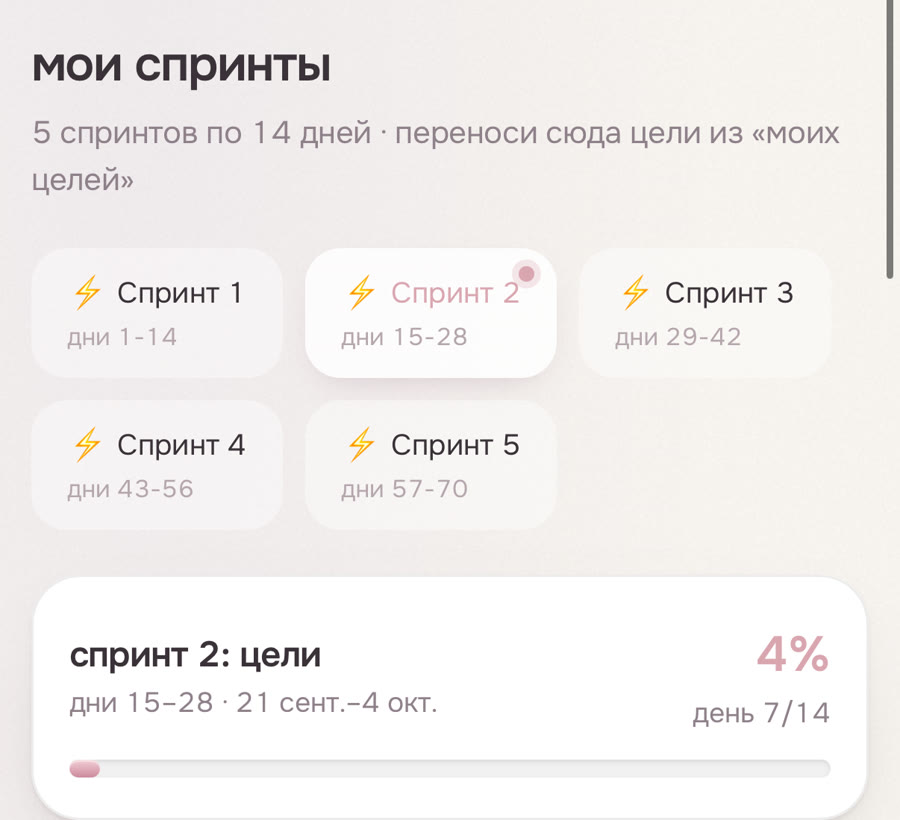
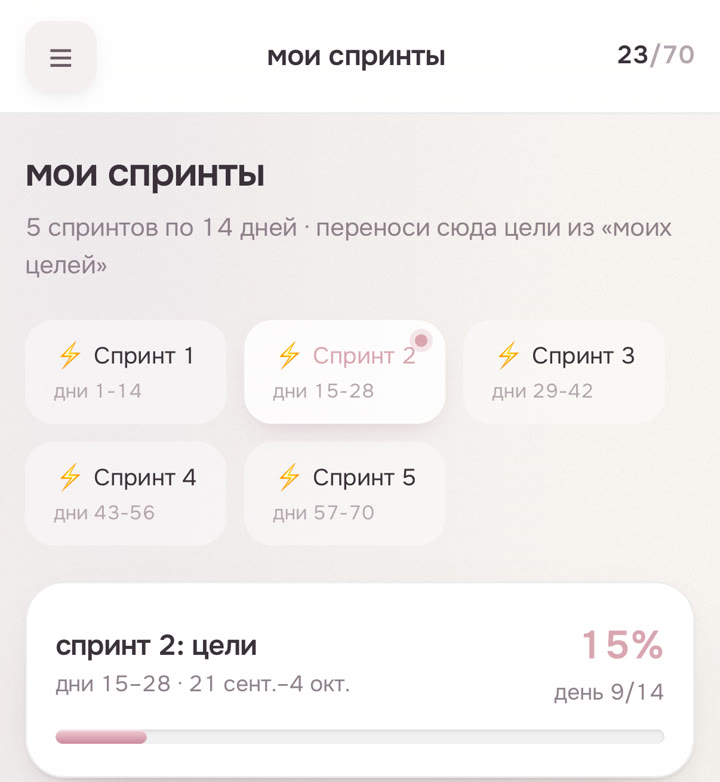
design: новые экраны платформы «поток» (день 23) в карточке портфолио, старые убраны; личное не показано

diff --git a/portfolio/index.html b/portfolio/index.html
@@ -262,7 +262,7 @@
                 <div class="portfolio-item spotlight-card bg-gradient-to-br from-white to-accent-terracotta/[0.05] rounded-[2.5rem] p-6 md:p-8 border border-accent-terracotta/10 shadow-xl flex flex-col hover:shadow-2xl transition-all duration-300" data-category="платформы">
                     <div class="relative w-full rounded-2xl mb-4 overflow-hidden">
                         <div style="background: #F3EDE6; height: 220px; overflow-y: auto; -webkit-overflow-scrolling: touch;">
-                            <img src="assets/potok.jpg" alt="платформа поток · 70 дней" style="width: 100%; height: auto; display: block;">
+                            <img src="assets/potok.jpg?v=2" alt="платформа поток · 70 дней" style="width: 100%; height: auto; display: block;">
                         </div>
                         <span class="text-serene-800 rounded-full text-xs font-semibold shadow-sm" style="position:absolute; bottom:0.5rem; right:0.5rem; padding:0.25rem 0.75rem; background:rgba(255,255,255,0.9); pointer-events:none;">Листайте ↓</span>
                     </div>
@@ -280,10 +280,11 @@
                         <p>Когда крупная цель пугает масштабом и легко забросить — нужна система, которая раскладывает её на спринты, недели и дни, показывает стрики и прогресс, чтобы двигаться, а не буксовать.</p>
                         <div style="margin:14px -4px 6px;">
                             <div style="display:flex; gap:12px; overflow-x:auto; -webkit-overflow-scrolling:touch; scroll-snap-type:x mandatory; padding:4px;">
-                                <img src="assets/potok.jpg" alt="платформа поток: главная" loading="lazy" style="height:360px; width:auto; flex:0 0 auto; border-radius:18px; scroll-snap-align:center; box-shadow:0 8px 20px -10px rgba(34,33,31,.35);">
-                                <img src="assets/potok-2.jpg" alt="платформа поток: намерения и тепловая карта" loading="lazy" style="height:360px; width:auto; flex:0 0 auto; border-radius:18px; scroll-snap-align:center; box-shadow:0 8px 20px -10px rgba(34,33,31,.35);">
-                                <img src="assets/potok-3.jpg" alt="платформа поток: спринты" loading="lazy" style="height:360px; width:auto; flex:0 0 auto; border-radius:18px; scroll-snap-align:center; box-shadow:0 8px 20px -10px rgba(34,33,31,.35);">
-                                <img src="assets/potok-4.jpg" alt="платформа поток: итоги дня" loading="lazy" style="height:360px; width:auto; flex:0 0 auto; border-radius:18px; scroll-snap-align:center; box-shadow:0 8px 20px -10px rgba(34,33,31,.35);">
+                                <img src="assets/potok-1.jpg?v=2" alt="платформа поток: главная" loading="lazy" style="height:360px; width:auto; flex:0 0 auto; border-radius:18px; scroll-snap-align:center; box-shadow:0 8px 20px -10px rgba(34,33,31,.35);">
+                                <img src="assets/potok-2.jpg?v=2" alt="платформа поток: намерения и тепловая карта" loading="lazy" style="height:360px; width:auto; flex:0 0 auto; border-radius:18px; scroll-snap-align:center; box-shadow:0 8px 20px -10px rgba(34,33,31,.35);">
+                                <img src="assets/potok-3.jpg?v=2" alt="платформа поток: спринты" loading="lazy" style="height:360px; width:auto; flex:0 0 auto; border-radius:18px; scroll-snap-align:center; box-shadow:0 8px 20px -10px rgba(34,33,31,.35);">
+                                <img src="assets/potok-4.jpg?v=2" alt="платформа поток: итоги недели" loading="lazy" style="height:360px; width:auto; flex:0 0 auto; border-radius:18px; scroll-snap-align:center; box-shadow:0 8px 20px -10px rgba(34,33,31,.35);">
+                                <img src="assets/potok-5.jpg?v=2" alt="платформа поток: итоги дня" loading="lazy" style="height:360px; width:auto; flex:0 0 auto; border-radius:18px; scroll-snap-align:center; box-shadow:0 8px 20px -10px rgba(34,33,31,.35);">
                             </div>
                             <p style="text-align:center; font-size:12px; opacity:.6; margin:6px 0 0;">Листайте →</p>
                         </div>
